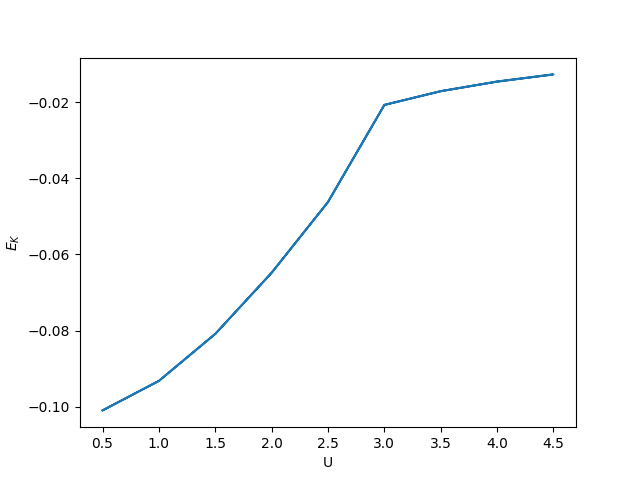
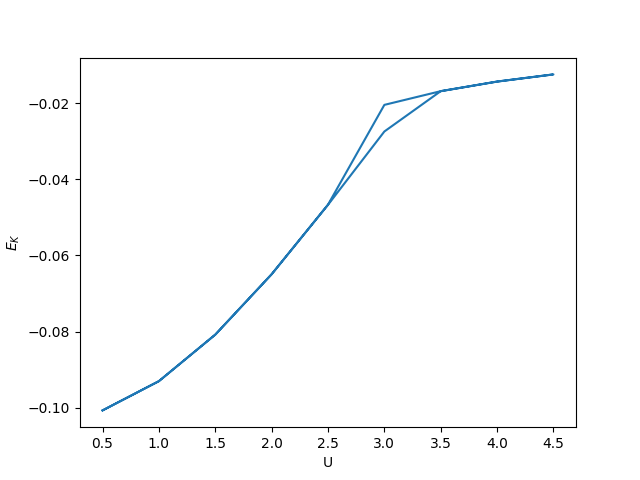
phase diagram

diff --git a/matsubara_w/ipt_imag_HM.py b/matsubara_w/ipt_imag_HM.py
@@ -152,17 +152,18 @@ def epot(g_iw, s_iw, u, beta, w_n):
 
 
 # Parameters
-beta = 50.0 # 1/T
 t = 0.5     # Hopping
 Nwn = 256   # Num of freq: Check if it is consistent with FFT criteria
 
-U_list = np.arange(0.5, 5.0, 0.125) # Interaction strength
-U_print = np.arange(0.5, 5.0, 0.5)  # Values when obs should be computed
+U_max = 5.
+U_list = np.arange(0.5, U_max, 0.125) # Interaction strength
+U_print = np.arange(0.5, U_max, 0.5)  # Values when obs should be computed
+beta_list = np.arange(16, 160, 16)    # Inverse of temperature
 
 # Hysteresis
-hyst = 1
+hyst = 1    
 if (hyst):
-    U_list = np.append(U_list, np.arange(5.0, 0.375, -0.125))
+    U_list = np.append(U_list, np.arange(U_max, 0.375, -0.125))
     U_print = np.append(U_print, U_print[::-1])
 
 dw = 0.01                       # Real freq differential
@@ -170,36 +171,63 @@ w = np.arange(-15, 15, dw)      # Real freq
 de = t/10                       # Energy differential
 e = np.arange(-2*t, 2*t, de)    # Energy
 
-tau, wn = gf. tau_wn_setup(beta,Nwn)
-G_iwn = gf.greenF(wn, sigma=0, mu=0, D=1)
-
 # Observables
 dos_U = []
 n_U = []
+d_U = []
 Ekin_U = []
+m_eff_U = []
+phase_U = []
 
 # Main loop
-for U in U_list:
-    G_iwn, Sig_iwn = dmft_loop(U, t, G_iwn, wn, tau, mix=1, conv=1e-3)
+for beta in beta_list:
+    # Generate Matsubara freq
+    tau, wn = gf. tau_wn_setup(beta, Nwn)
     
-    if U in U_print:
+    # Seed green function
+    G_iwn = gf.greenF(wn, sigma=0, mu=0, D=1)
+    
+    # Index of zero frequency
+    w0_idx = int(len(w)/2)
+            
+    phase_beta = []
+
+    for U in U_list:
+        G_iwn, Sig_iwn = dmft_loop(U, t, G_iwn, wn, tau, mix=1, conv=1e-3)
+        
         # Analytic continuation using Pade
         g_w = gf.pade_continuation(G_iwn, wn, w, w_set=None)
+        sig_w = gf.pade_continuation(Sig_iwn, wn, w, w_set=None)
         
-        # DOS
-        dos_U.append(-g_w.imag)
+        # Phase of material, 0 for metallic, 1 for insulating
+        phase = -1 if -g_w[w0_idx].imag > 0.1 else 1
+        phase_beta.append(phase)  
         
-        # Electron concentration for temp 1/beta and energy w_range
-        n = np.sum(-g_w.imag/np.pi * gf.fermi_dist(w, beta) * dw)
-        n_U.append(n)
-        
-        # Kinetic energy
-        Ekin = 0
-        # Sum over Matsubara freq
-        for n in range(Nwn):
-            # Integral in epsilong
-            Ekin += 1/beta * np.sum(de * e * gf.bethe_dos(t, e) * gf.g_k_w(e, wn[n], Sig_iwn[n], mu=0))
-        Ekin_U.append(Ekin.real)
+        if U in U_print and beta == 64:
+            # DOS
+            dos_U.append(-g_w.imag)
+            
+            # Electron concentration for temp 1/beta and energy w
+            n = np.sum(-g_w.imag/np.pi * gf.fermi_dist(w, beta) * dw)
+            n_U.append(n)
+            
+            # Double occupancy
+            d = n**2 + 1/(U*beta)*np.sum(G_iwn*Sig_iwn)
+            d_U.append(d.real)
+            
+            # Kinetic energy
+            Ekin = 0
+            # Sum over Matsubara freq
+            for n in range(Nwn):
+                # Integral in epsilon
+                Ekin += 1/beta * np.sum(de * e * gf.bethe_dos(t, e) * gf.g_k_w(e, wn[n], Sig_iwn[n], mu=0))
+            Ekin_U.append(Ekin.real)
+            
+            # Effective mass
+            dSig = (sig_w[w0_idx+1].real-sig_w[w0_idx].real)/dw
+            m_eff_U.append(1/(1-dSig))
+    
+    phase_U.append(phase_beta)
     
 # Print DOS
 plots = int(len(U_print)/2) if hyst else len(U_print)
@@ -208,21 +236,56 @@ for i in range(plots):
     axs[i].set(xlabel=r'$\omega$')
     axs[i].plot(w, dos_U[i])      
 
-fig.supylabel(r'$\rho(\omega)$')
+fig.supylabel(r'$\rho(\omega)$')    
 plt.savefig("./figures/dos.png")
 
 # Print n
-plt.figure(0)
+plt.figure()
 plt.xlabel('U')
 plt.ylabel('n')
 plt.plot(U_print, n_U)
 plt.savefig("./figures/n.png")
-plt.close(0)
+plt.close()
+
+# Print d
+plt.figure()
+plt.xlabel('U')
+plt.ylabel('d')
+plt.plot(U_print, d_U)
+plt.savefig("./figures/d.png")
+plt.close()
 
 # Print kinetic energy
-plt.figure(0)
+plt.figure()
 plt.xlabel('U')
 plt.ylabel(r'$E_K$')
 plt.plot(U_print, Ekin_U)
 plt.savefig("./figures/Ekin.png")
-plt.close(0)
+
+# Print effective mass
+plt.figure()
+plt.xlabel('U')
+plt.ylabel(r'$m^*$')
+plt.plot(U_print, m_eff_U)
+plt.savefig("./figures/m_eff.png")
+
+# Print phase diagram
+plt.figure()
+plt.xlabel('U')
+plt.ylabel('T')
+T_list = [1/beta for beta in beta_list]    # Convert from beta to temp
+T_list = np.flipud(T_list)                 # Sort in increasing order
+phase_U = np.flipud(phase_U)
+phase_diag = []
+if hyst:
+    for phase_beta in phase_U:
+        inc_U = phase_beta[:int(len(U_list)/2)]
+        dec_U = phase_beta[int(len(U_list)/2)+1:]
+        dec_U = np.flipud(dec_U)
+        final = inc_U + dec_U
+        phase_diag.append(final)
+        
+im_edges = [U_list[0], U_max,
+            T_list[0], T_list[len(T_list)-1]]
+plt.imshow(phase_diag, interpolation='none', extent=im_edges, aspect='auto')
+plt.savefig("./figures/phase_diag.png")
